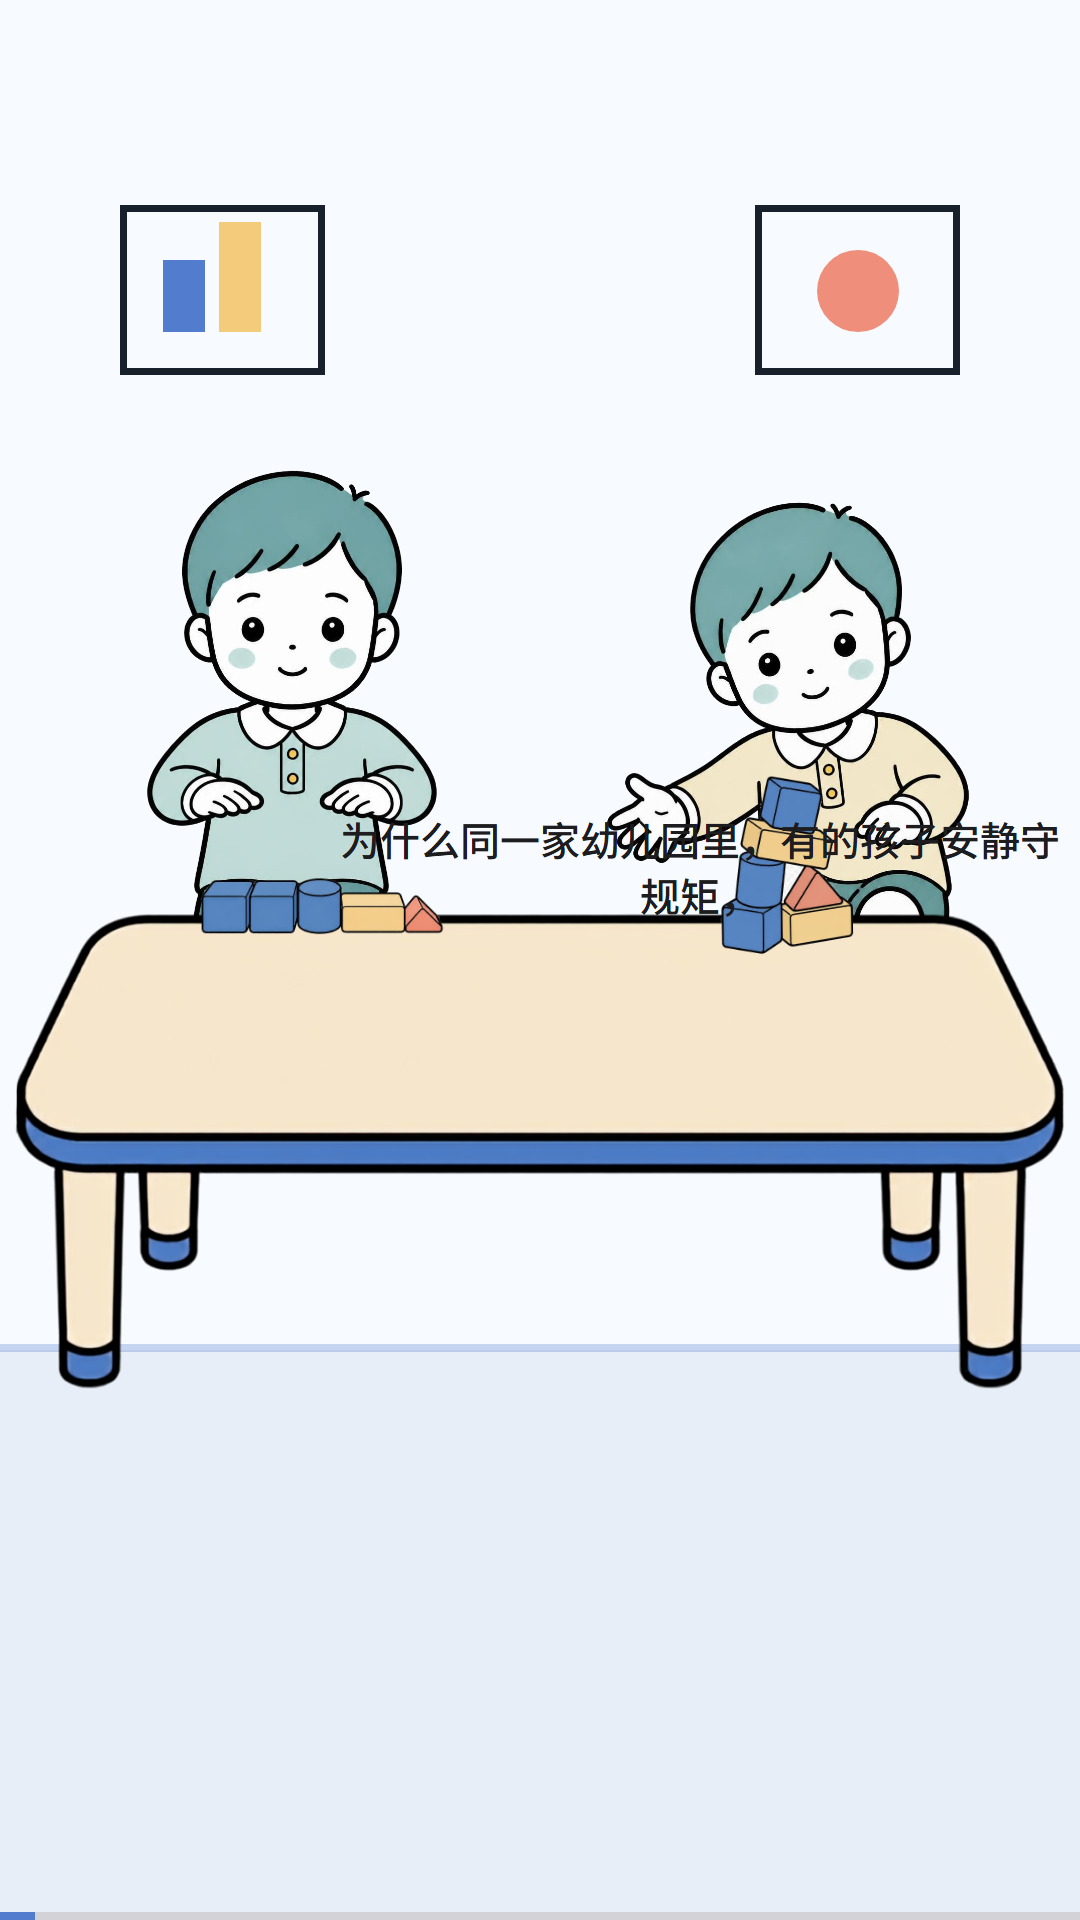
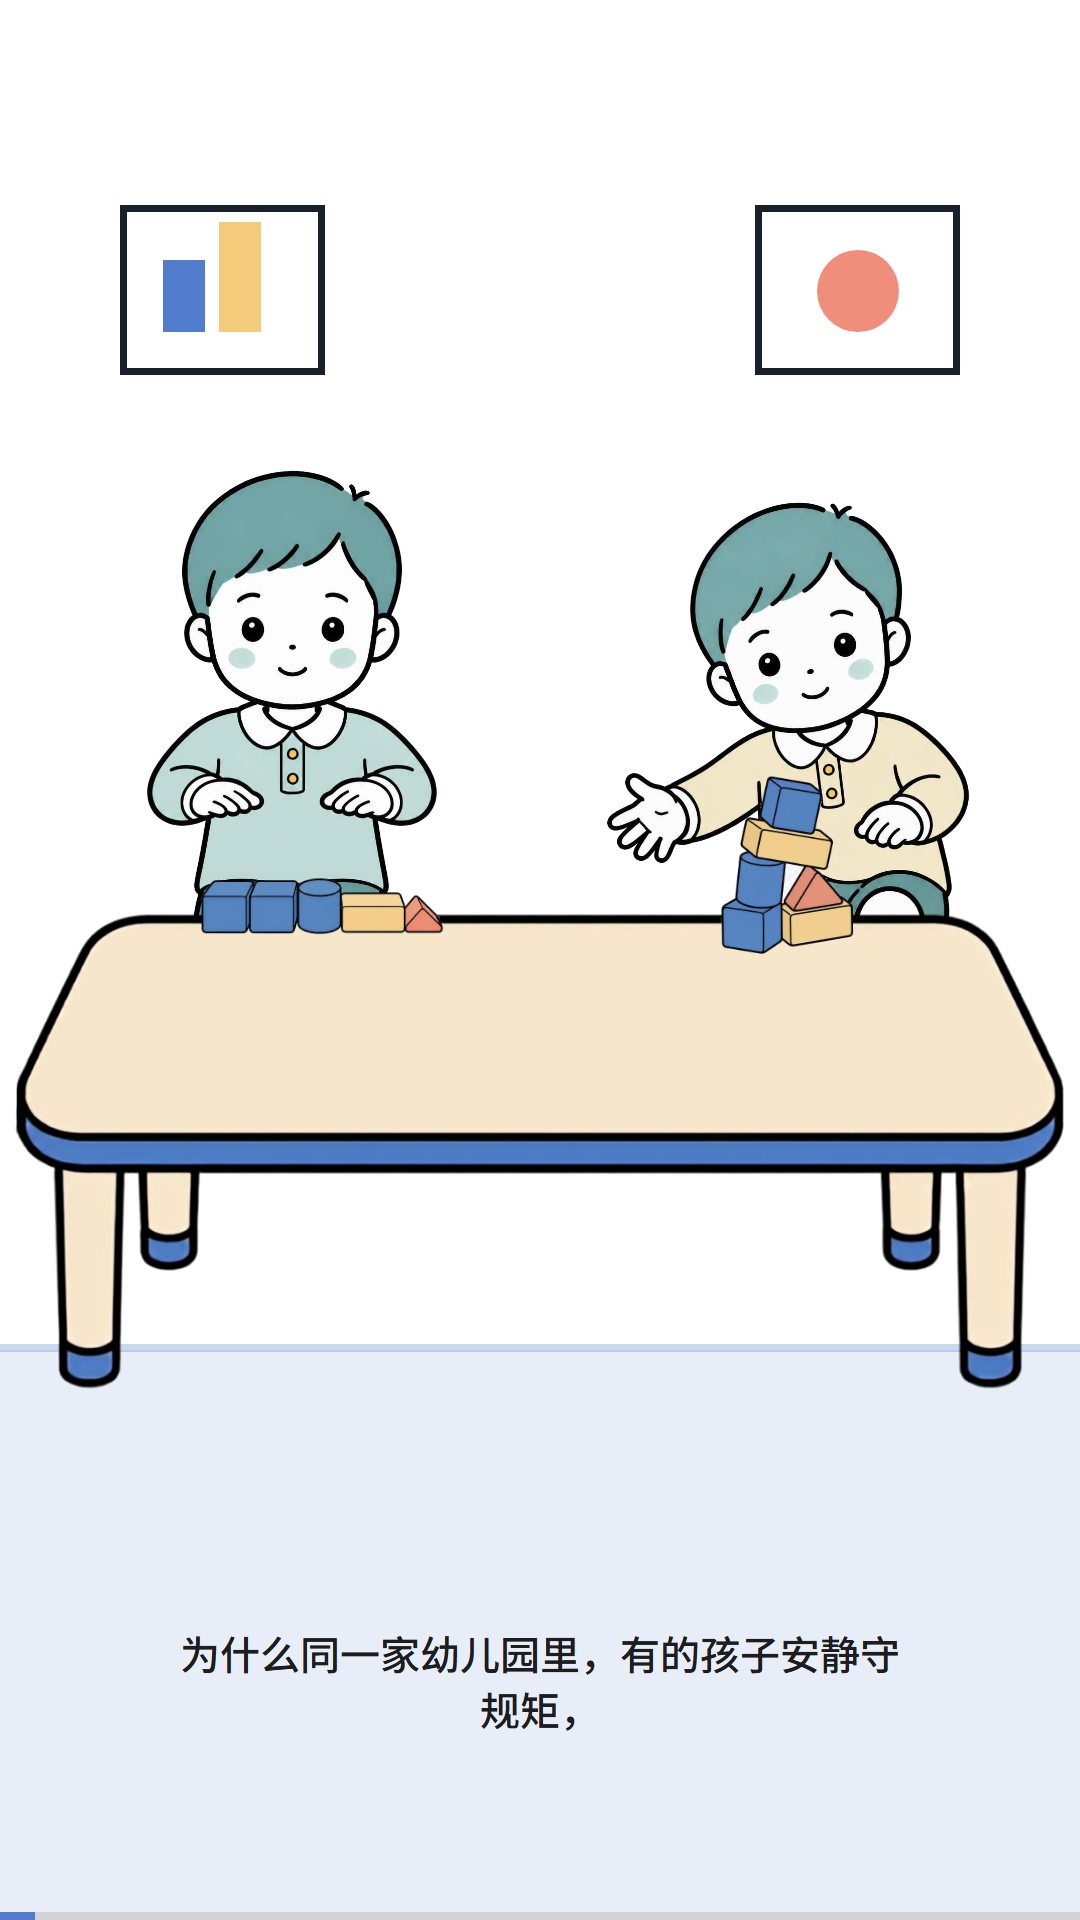
测试

diff --git a/src/episodes/episode-02/scenes/KindergartenContrastScene.tsx b/src/episodes/episode-02/scenes/KindergartenContrastScene.tsx
@@ -45,7 +45,7 @@ export const KindergartenContrastScene = () => {
       <AbsoluteFill style={{ backgroundColor: "#fff" }} />
       <div
         style={{
-          backgroundColor: "#E8EEF7",
+          backgroundColor: "#fff",
           bottom: 0,
           height: 570,
           left: 0,
